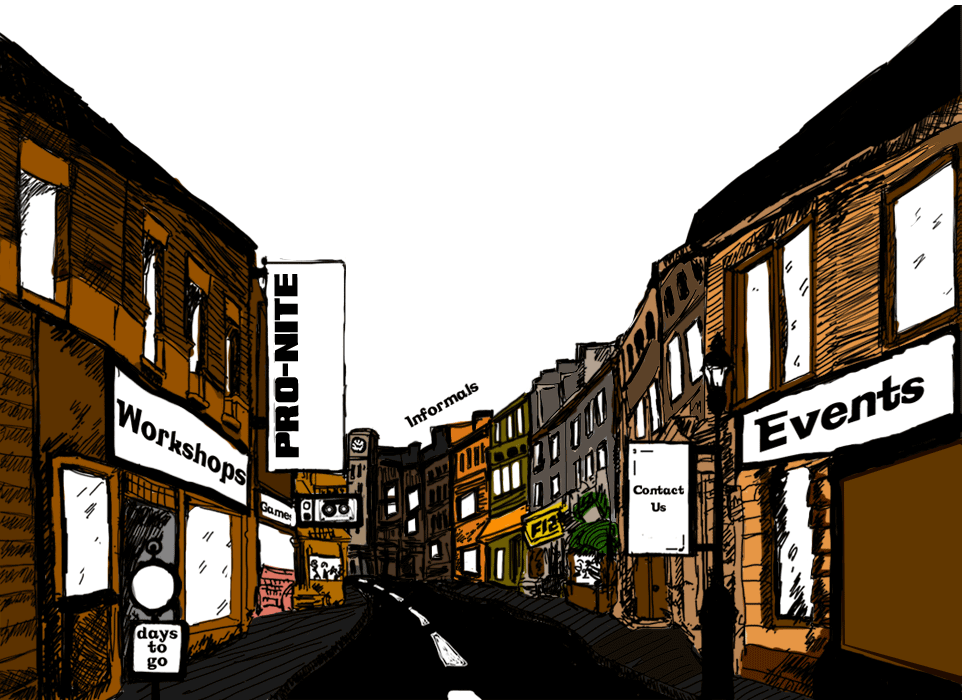
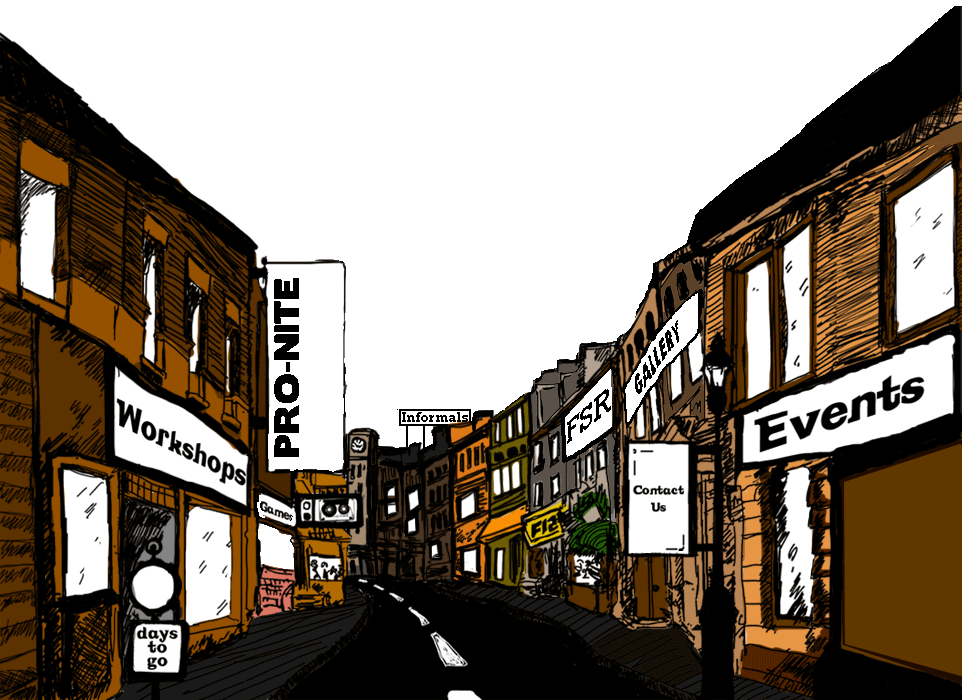
fsr created

diff --git a/js/main.js b/js/main.js
@@ -9,6 +9,8 @@
 	    canvas : document.getElementById("container_canvas"),
 	    overlay : document.getElementById("overlayed"),
 	    pronite : document.getElementById("pronite_container"),
+	    fsr : document.getElementById("fsr_container"),		
+	    gallery : document.getElementById("gallery_container"),				
 	    contacts : document.getElementById("contact_container"),
 	    events : document.getElementById("events_container"),
 	    casette : document.getElementById("casette_container"),
@@ -90,7 +92,21 @@
 		left: ((28/100)*w)+'px',
 		bottom: ((23/100)*w)+'px'
 	    });
-	    
+		
+	    $(element["fsr"]).css({
+		width: ((12/100)*w)+'px',
+		height: ((9.5/100)*w)+'px',
+		left: ((53/100)*w)+'px',
+		bottom: ((25/100)*w)+'px'
+	    });	
+/*	
+	    $(element["gallery"]).css({
+		width: ((4/100)*w)+'px',
+		height: ((14.5/100)*w)+'px',
+		left: ((65/100)*w)+'px',
+		bottom: ((30/100)*w)+'px'
+	    });			
+*/	    
 	    //if(e.type === "resize"){
 	    $(element["player"]).css({
 		width: ((77/100)*w)+'px',
@@ -432,6 +448,13 @@
 	    element["content"] = document.getElementById("pronite");		
 	    element["content"].style.display = "block";		
 	});
+	$("#fsr_container").click(function(e){
+	    var that = this;
+	    element["popupSrc"] = this;		   
+	    popup(that);
+	    element["content"] = document.getElementById("nothing");		
+	    element["content"].style.display = "block";		
+	});	
 	$("#games_container").click(function(e){
 	    window.location = "http://games.festember.com/";
 	});

diff --git a/css/main.css b/css/main.css
@@ -239,7 +239,26 @@ body {
 
 #pronite_container:hover{
     background-color : #b20404;  	
-}	
+}
+
+#fsr_container{
+    position: absolute;
+    width:  8%;
+    height:	7%;
+    left : 58%;
+    bottom : 48%;
+    cursor : pointer;
+	border-top-left-radius : 120px;
+    background-color : #fff;
+}
+
+#element_fsr{
+    
+}
+
+#fsr_container:hover{
+    background-color : Green;  	
+}
 
 #casette_container{
     position : absolute;

diff --git a/index.php b/index.php
@@ -487,8 +487,12 @@
 	  
       <div id="fsr_container">
 	<canvas id="element_fsr" class="element_canvas"></canvas>	
-      </div>	  
-      
+      </div>	
+<!--	
+      <div id="gallery_container">
+	<canvas id="element_gallery" class="element_canvas"></canvas>	
+      </div>		
+-->      
       <div id="theme_play" class="play-pause">
 	<img src="images/play.png">
       </div>
